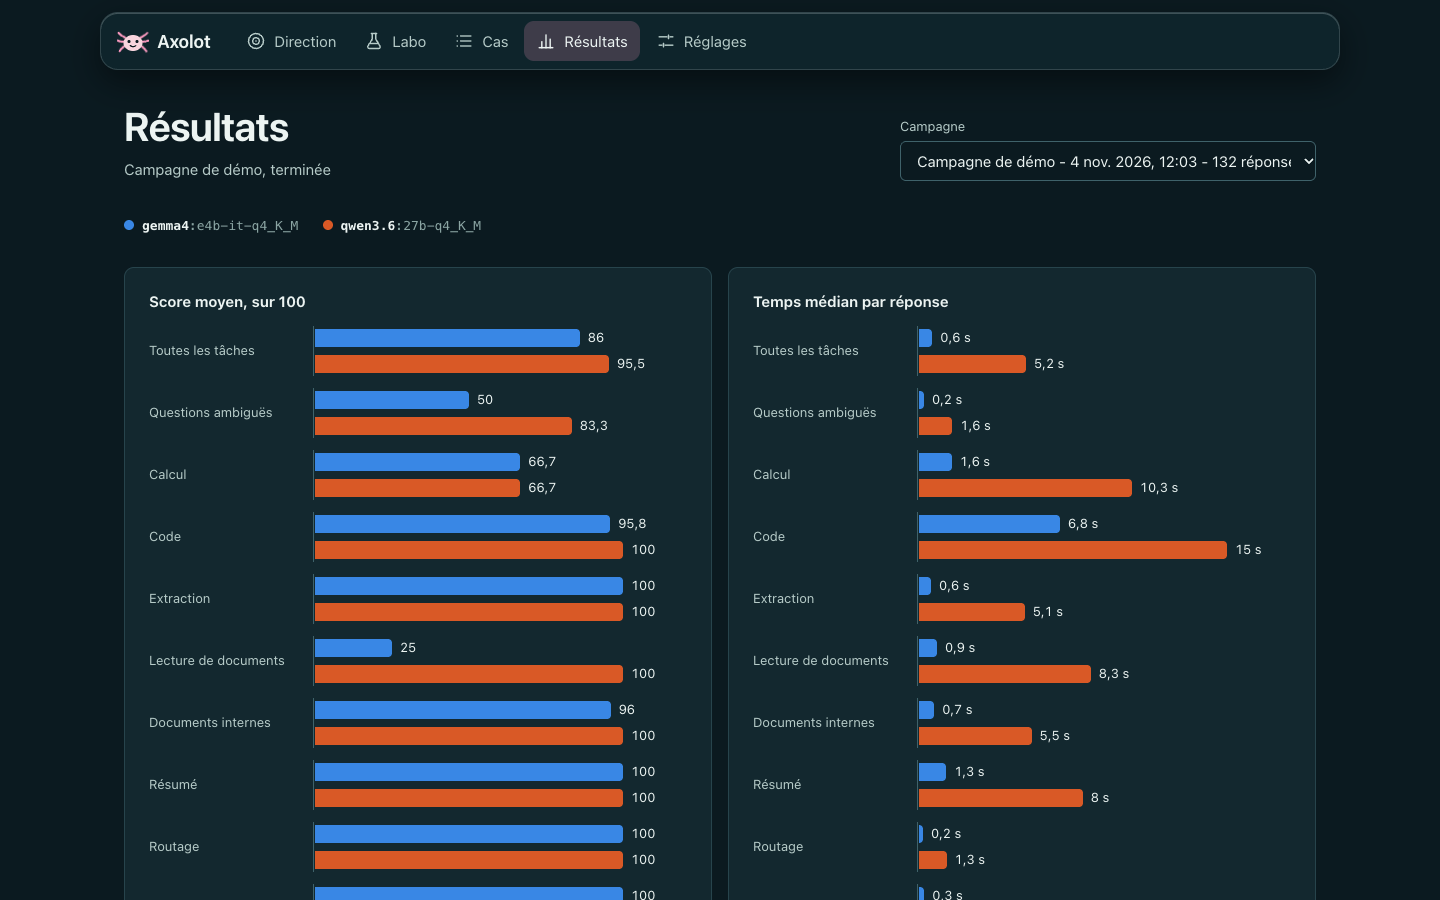
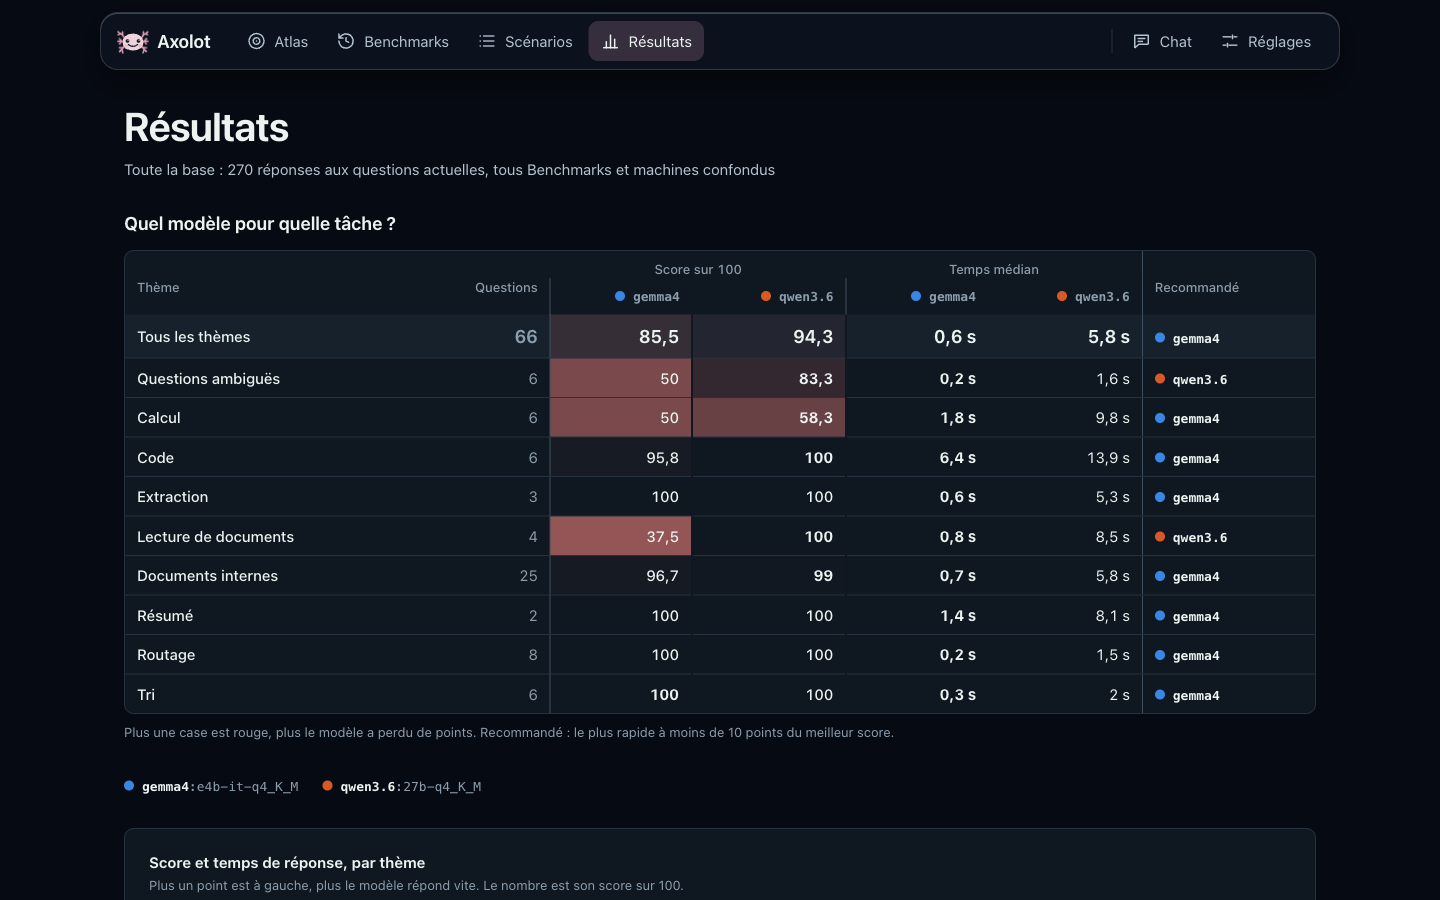
docs: record cumulated results and refresh captures

diff --git a/docs/poc.md b/docs/poc.md
@@ -10,20 +10,22 @@ Montrer quel modèle local convient à quelle tâche, à quelle vitesse et avec 
 - Corpus fictif "Groupe Hélianthe" (`corpus/demo`, 16 fichiers, 57 extraits) et 13 cas, 66 items (`cases/`), dont 5 cas durcis.
 - Front Svelte 5 embarqué dans le binaire : Atlas, Benchmarks, Scénarios, Résultats, puis Chat et Réglages. README et captures dans `docs/captures`.
 
-## Campagne de démo (2026-11-04, 132 réponses, depuis l'interface)
-| Modèle | Score moyen | Temps médian | tok/s médian |
+## Base cumulée (2026-11-04, 2 Benchmarks complets, température 0,3)
+| Modèle | Score cumulé | Réponses | Temps médian du dernier passage |
 |---|---|---|---|
-| `gemma4:e4b-it-q4_K_M` | 86 | 0,6 s | 156 |
-| `qwen3.6:27b-q4_K_M` | 95,5 | 5,2 s | 21 |
+| `gemma4:e4b-it-q4_K_M` | 85,5 | 138 | 0,6 s |
+| `qwen3.6:27b-q4_K_M` | 94,3 | 132 | 5,9 s |
 
-- Les cas durcis départagent : Questions ambiguës 50 / 83,3, Lecture de documents 25 / 100, Documents internes 96 / 100.
-- Échecs relus un par un : aucun faux positif trouvé, valeurs attendues des 6 calculs revérifiées à la main. Calcul à 66,7 des deux côtés par coïncidence, sur des erreurs différentes.
+- Les réponses antérieures à l'empreinte de question restent en base, hors stats. Rien n'est supprimé.
+- Échecs relus sur les 2 passages : aucun faux positif trouvé. Valeurs attendues des 6 calculs revérifiées à la main. Les scores bougent d'un passage à l'autre : c'est voulu, une seule mesure ne prouve pas un petit écart.
 - `python-top-stores` (Gemma) : code correct, signature non respectée alors que l'énoncé la demandait exacte. Défaut du modèle, vérification conservée.
-- Limites connues : `lecture-km-brico-seule` donne 0/100 à Gemma pour 105,8 au lieu de 105,84 (égalité stricte). Le prompt RAG de `internal/rag/rag.go` annonce toujours les pièges, seuls les cas `lecture-documents` y échappent.
+- `lecture-km-brico-seule` : 0/100 pour 105,8 au lieu de 105,84 sur le dernier passage (égalité stricte), conservé.
+- Le prompt RAG de `internal/rag/rag.go` annonce toujours les pièges, seuls les cas `lecture-documents` y échappent.
+- Benchmarks : 8 min 54 sur batterie, 11 min 58 sur secteur, avec l'interface ouverte et en cours d'usage sur le second. Ne permet pas de conclure à un effet de l'alimentation.
+- Gel d'onglet vu une fois sur l'Atlas : cause non trouvée, non reproduit, protections ajoutées. Garder un onglet de secours sur Résultats.
 
 ## Reste à faire
-- Avant la démo, sur accord de Raphaël : supprimer de la base `Essai qwen...`, `Essai gemma...`, `Essai front` et `Campagne` (annulée, 0 réponse).
-- Répéter le parcours sur `http://localhost:5090` : Atlas, un scénario en direct depuis l'Atlas, Résultats, citation ouverte dans une page de scénario.
+- Répéter le parcours sur `http://localhost:5090` : Atlas, un scénario en direct, Résultats, citation ouverte, Chat avec et sans Documents.
 
 ## UI (`/impeccable`, français, peu de texte, icônes animées)
 - **Résultats** : base cumulée, synthèse pour non-tech en tête, gagnants qualité / vitesse / compromis par thème.
@@ -40,6 +42,14 @@ Montrer quel modèle local convient à quelle tâche, à quelle vitesse et avec 
 `gemma4:e4b-it-q4_K_M` (6,6 Go), `qwen3.6:27b-q4_K_M` (17 Go), `bge-m3` (1,2 Go, embeddings). `qwen3.6:35b-a3b` (23 Go) est juste en RAM avec Colima.
 
 ## Après la démo
+- Énergie par modèle : script hôte relevant `ioreg` pendant les Benchmarks (sans `sudo`, sur batterie, toute la machine ; `powermetrics` pour CPU/GPU), croisé avec les réponses, en Wh par réponse.
+- Thème de Benchmark sur l'appel d'outils, avec date et heure comme premier outil.
+- Plusieurs machines : export/import des résultats, le filtre machine n'a tourné qu'avec une seule.
+- Login, puis exposition au-delà de loopback.
+- Atlas : chevauchements de libellés restants, place des Benchmarks au centre.
+- Formats réels : PDF multi-colonnes, exports Outlook, mails HTML à éprouver.
+- Intervalles de confiance sur les Benchmarks répétés, à faire de la main de Raphaël.
+- `DESIGN.md` à générer depuis l'interface finale.
 - Pause explicative du RAG, à la demande de Raphaël : il doit en mettre un en place pour l'entreprise (`~/Gitlab/projects/ai-local`). Le parcours tuteur de `ai-local/notes-labo-rag.md` reste à faire de sa main.
 - JEV (TypeSafe AI) : connecteur si le compte est ouvert. Modèle de décision sans génération de texte, à comparer sur `routage-sentinelle`. Clarifier les données envoyées au fournisseur.
 - Référence frontier sans clé API (avant la démo si le temps le permet, après le front et une campagne locale réussie) : script hôte exposant `claude -p` et l'abonnement Max comme une API compatible OpenAI, ajouté comme simple connexion. À vérifier : sortie structurée, mesures de temps, conditions de l'abonnement. Qualité comparable, vitesse moins directe (réseau, surcoût de Claude Code). Présenter comme référence cloud, hors démo 100 % locale.

diff --git a/README.md b/README.md
@@ -2,7 +2,7 @@
 
 Labo de comparaison de modèles d'IA sur des cas à résultat attendu. Quel modèle pour quelle tâche, à quelle vitesse et avec quelle qualité, sur la machine présente. Notation déterministe : aucune autre IA que les modèles testés.
 
-![Synthèse](docs/captures/direction-desktop.png)
+![Atlas](docs/captures/atlas-desktop.png)
 
 ## Démarrer
 
@@ -36,6 +36,10 @@ make web-check  # svelte-check
 
 Conventions et pièges : `CLAUDE.md`. État du POC : `docs/poc.md`.
 
-| Bureau | Mobile |
-|---|---|
-| ![Labo](docs/captures/labo-desktop.png) ![Résultats](docs/captures/resultats-desktop.png) | ![Synthèse mobile](docs/captures/direction-mobile.png) |
+![Atlas, modèle sélectionné](docs/captures/atlas-modele.png)
+
+![Résultats](docs/captures/resultats-desktop.png)
+
+![Benchmarks](docs/captures/benchmarks-desktop.png)
+
+![Chat](docs/captures/chat-desktop.png)
